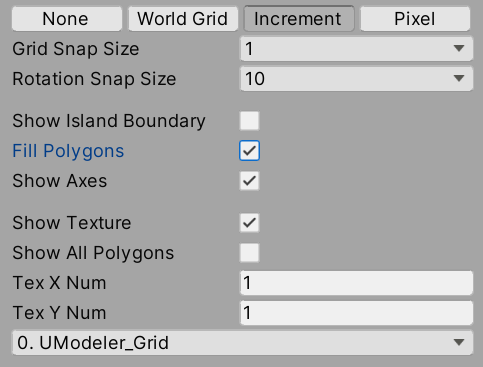
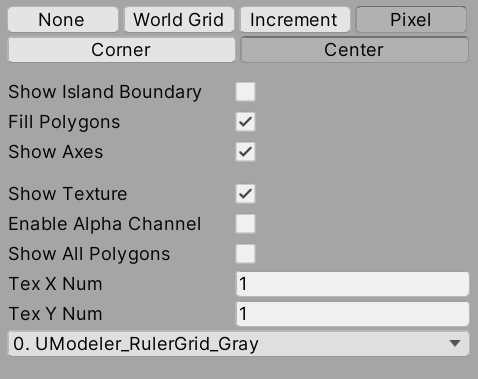
Updated the release note

diff --git a/releasenotes_UModeler_2021.rst b/releasenotes_UModeler_2021.rst
@@ -2,6 +2,21 @@
 UModeler 2021
 ############################
 
+Version 2.8.4f2 - May.31.2021
+=================================
+- Assets : Includes ``Blacksmith`` demo pack.
+- Enhancement : Added ``Extrude Modifier Key`` to ``Preference`` window to set the modifier key for extruding using the gizmos. Either ``Shift`` or ``Capslock`` is available.
+
+.. figure:: /images/ExtrudeModifierKeySettings.png
+   :scale: 60 %
+
+- Enhancement : Added ``Enable Alpha Channel`` to ``Settings`` window in ``UV Editor`` to apply the alpha channel to display transparent pixels.
+
+.. figure:: /images/EnableAlphaChannel_UVEditorSettingsWindow.png
+   :scale: 60 %
+ 
+- Fix : Fixed the edge selection bug when a UModeler object scale is not uniform.
+
 Version 2.8.4f1 - May.18.2021
 =================================
 - Assets : Includes ``Blacksmith`` demo pack.
